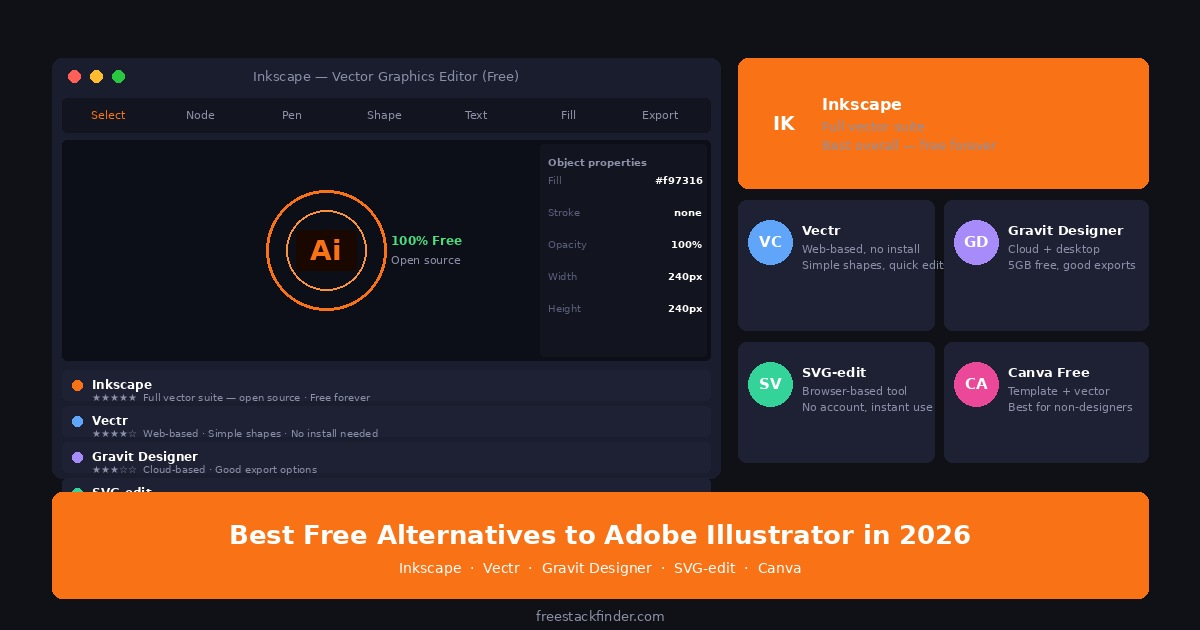
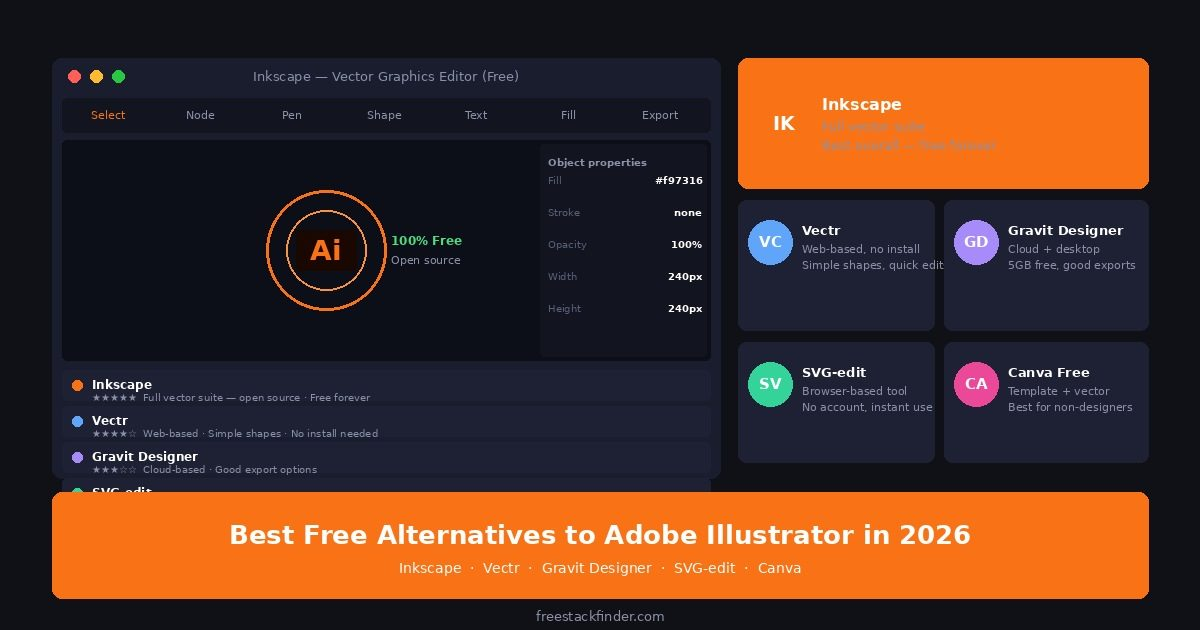
Day 29: Remove 1.7MB PNG and compress all feature images
- Delete unreferenced best-free-canva-alternatives-2026-featured-image.png
- Re-compress 26 JPEGs from quality 92 to quality 82 (optimize=True)
- Total first-party image savings approximately 2.5 MB

Changed region(s): [[0.7092, 0.1508, 0.74, 0.181], [0.4933, 0.8444, 0.5242, 0.8746]]

diff --git a/freestackfinder-progress-log.md b/freestackfinder-progress-log.md
@@ -85,6 +85,13 @@ Full 50-article plan with silo targets and Later-queue articles is in `CONTENT-S
 
 ## Recent completed work
 
+### Day 29
+- Deleted `static/img/best-free-canva-alternatives-2026-featured-image.png` — 1.7 MB unreferenced PNG removed from repo; article already updated to use `canva-alternatives.jpg` in Day 28
+- Re-compressed all 26 JPEGs in `static/img/` from quality 92 → quality 82 using Python + Pillow; total JPEG savings ~802 KB
+- Combined first-party image payload reduction: ~2.5 MB (PNG deletion + JPEG compression)
+- Day 28 changes (defer on main.js, preconnect for AdSense, featured image dimensions, aspect-ratio CSS) are confirmed deployed; mobile PageSpeed test at 11:39:59 on Apr 14 was a pre-deployment cache hit
+- Remaining CLS 0.270 on homepage is from AdSense auto-ads injecting content — third-party, not fixable from code without removing ads
+
 ### Day 28
 - Fixed `canva-alternatives.md` image path: was referencing 1.7 MB PNG; now uses 244 KB `canva-alternatives.jpg`
 - Added `defer` to `/js/main.js` reference in `layouts/_default/baseof.html` — removes render-blocking JS flag in Lighthouse
